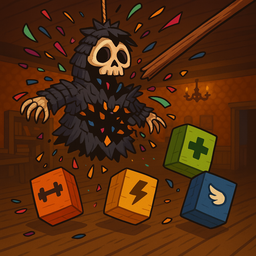
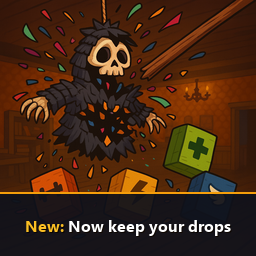
release: v2.0.2

Changed region(s): [[0.0, 0.75, 1.0, 1.0]]

diff --git a/EnemyDropsPlugin.cs b/EnemyDropsPlugin.cs
@@ -12,7 +12,7 @@ public class EnemyDropsPlugin : BaseUnityPlugin
 {
 	public const string PluginGuid = "osmarbriones.EnemyDrops";
 	public const string PluginName = "EnemyDrops";
-	public const string PluginVersion = "2.0.1";
+	public const string PluginVersion = "2.0.2";
 
 	internal static EnemyDropsPlugin Instance { get; private set; } = null!;
 	internal static new ManualLogSource Logger { get; private set; } = null!;

diff --git a/README.md b/README.md
@@ -5,6 +5,13 @@ Only Host, clients don't need it. Native **BepInEx** mod.
 Inspired by the original **REPO Enemy Drops** mod by ImVertro.  
 This version is a fully native BepInEx implementation for users who prefer not to use MelonLoader, with additional usability improvements.
 
+## What's new in v2.0
+- **Keep Enemy Drops Between Levels:** You can now bring dropped items into the truck or keep them in your inventory to preserve them across levels and save them with your run!
+- **Configurable Preservation Cap:** New `MaxPreservedItems` setting (default: 10) to balance your run progression.
+- **Dynamic Slot Recycling:** Consuming or destroying a preserved item frees up space for new enemy drops.
+- **Informative Telemetry:** Clear console logs alert you when an item is secured or when the capacity limit is reached.
+- **Engine Modernization:** Complete rewrite powered by `RepoAPI` for flawless host-only replication and performance.
+
 ## Features
 - Monsters drop items upon death based on their danger level.
 - Configure drop chances and weights for every item per monster difficulty tier.

diff --git a/CHANGELOG.md b/CHANGELOG.md
@@ -5,6 +5,12 @@ All notable changes to this project will be documented in this file.
 The format is based on [Keep a Changelog](https://keepachangelog.com/en/1.0.0/),
 and this project adheres to [Semantic Versioning](https://semver.org/spec/v2.0.0.html).
 
+## [2.0.2] - 2026-09-29
+
+### Changed
+- Updated mod thumbnail with a new announcement banner highlighting the item persistence feature ("New: Now keep your drops").
+- Added "What's new in v2.0" section to README.md detailing item preservation, configuration caps, and telemetry improvements.
+
 ## [2.0.1] - 2026-09-29
 
 ### Added
